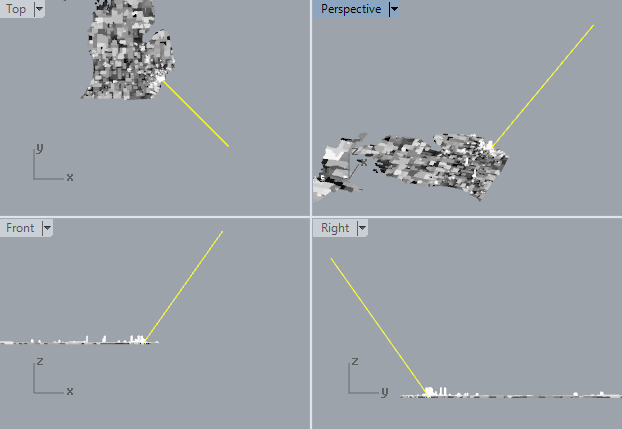
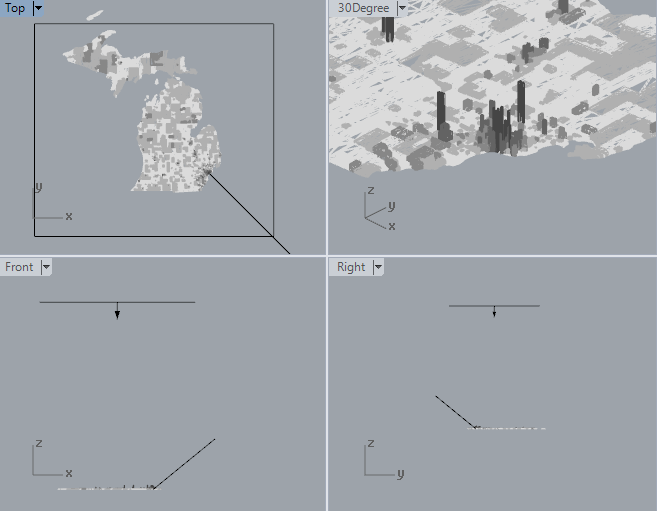
image changes

diff --git a/PrismMaps_Procedure.md b/PrismMaps_Procedure.md
@@ -25,7 +25,7 @@ The following software packages are required:
 #### 1.2 Symbolize and Extrude Enumeration Units   
 
 ![symbology](https://raw.githubusercontent.com/designedspace/MSFF_Docs/master/Files/Media/1_2_symbology.PNG "Symbology")  
-1. Open the properties window for the layer of interest and navigate to the Symbology tab. Symbolize the variable of interest using a graduated color scheme with a white-to-black gradient. Limit the number of classes to 4 or 5 and choose an appropriate classification method. Make sure that the gradient is such that higher values receive darker colors - while this appears to be the opposite of the desired result, the image will be inverted later in Photoshop, which imbues the prisms with the eerie glowing-from-the-base charachter.  
+1. Open the properties window for the layer of interest and navigate to the Symbology tab. Symbolize the variable of interest using a graduated color scheme with a white-to-grey gradient. Limit the number of classes to 4 or 5 and choose an appropriate classification method. Make sure that the gradient is such that higher values receive darker colors - while this appears to be the opposite of the desired result, the image will be inverted later in Photoshop, which imbues the prisms with the eerie glowing-from-the-base character. The white-to-grey gradient is chosen over a white-to-black for similar reasons.  
     * N.B., if you are producing a series of maps that are meant to be comparable, all maps should use the same classification scheme and this classification scheme should be based on the year with the largest range of values.
     
 ![extrusion](https://raw.githubusercontent.com/designedspace/MSFF_Docs/master/Files/Media/1_2_extrusion.PNG "Extrusion")  
@@ -48,7 +48,7 @@ The following software packages are required:
 #### 2.2 Set camera  
 
 1. Change the perspective viewport's properties such that it uses parallel projection instead of perspective.  
-2. In the top viewport, create a new line of arbitrary length at a 0 degree angle whose start is the project's origin (this will be used to set the camera and its target). In the front viewport, rotate it 45 degrees. In the top viewport, rotate it so that it makes an angle appropriate for the area under consideration. Pictured below is the the result of this process in the case of Detroit.  
+2. In the top viewport, create a new line of arbitrary length at a 0 degree angle whose start is the project's origin (this will be used to set the camera and its target). In the front viewport, rotate it up from the ground plane by 30 degrees. In the top viewport, rotate it so that it makes an angle appropriate for the area under consideration. Pictured below is the the result of this process in the case of Detroit.  
 ![set camera](https://raw.githubusercontent.com/designedspace/MSFF_Docs/master/Files/Media/2_2_camera.PNG "Set camera")  
 3. Make sure the perspective viewport is active. Navigate to "Place Camera and Target" (View > Set Camera). Place the camera at the elevated end of the line, and place the target at the end of the line in contact with the ground plane. Now adjust the zoom settings until the frame is positioned as desired. Pictured below is (again) the result of this process in the case of Detroit.  
 ![camera placement](https://raw.githubusercontent.com/designedspace/MSFF_Docs/master/Files/Media/2_2_cameraplacement.PNG "Camera Placement")  
